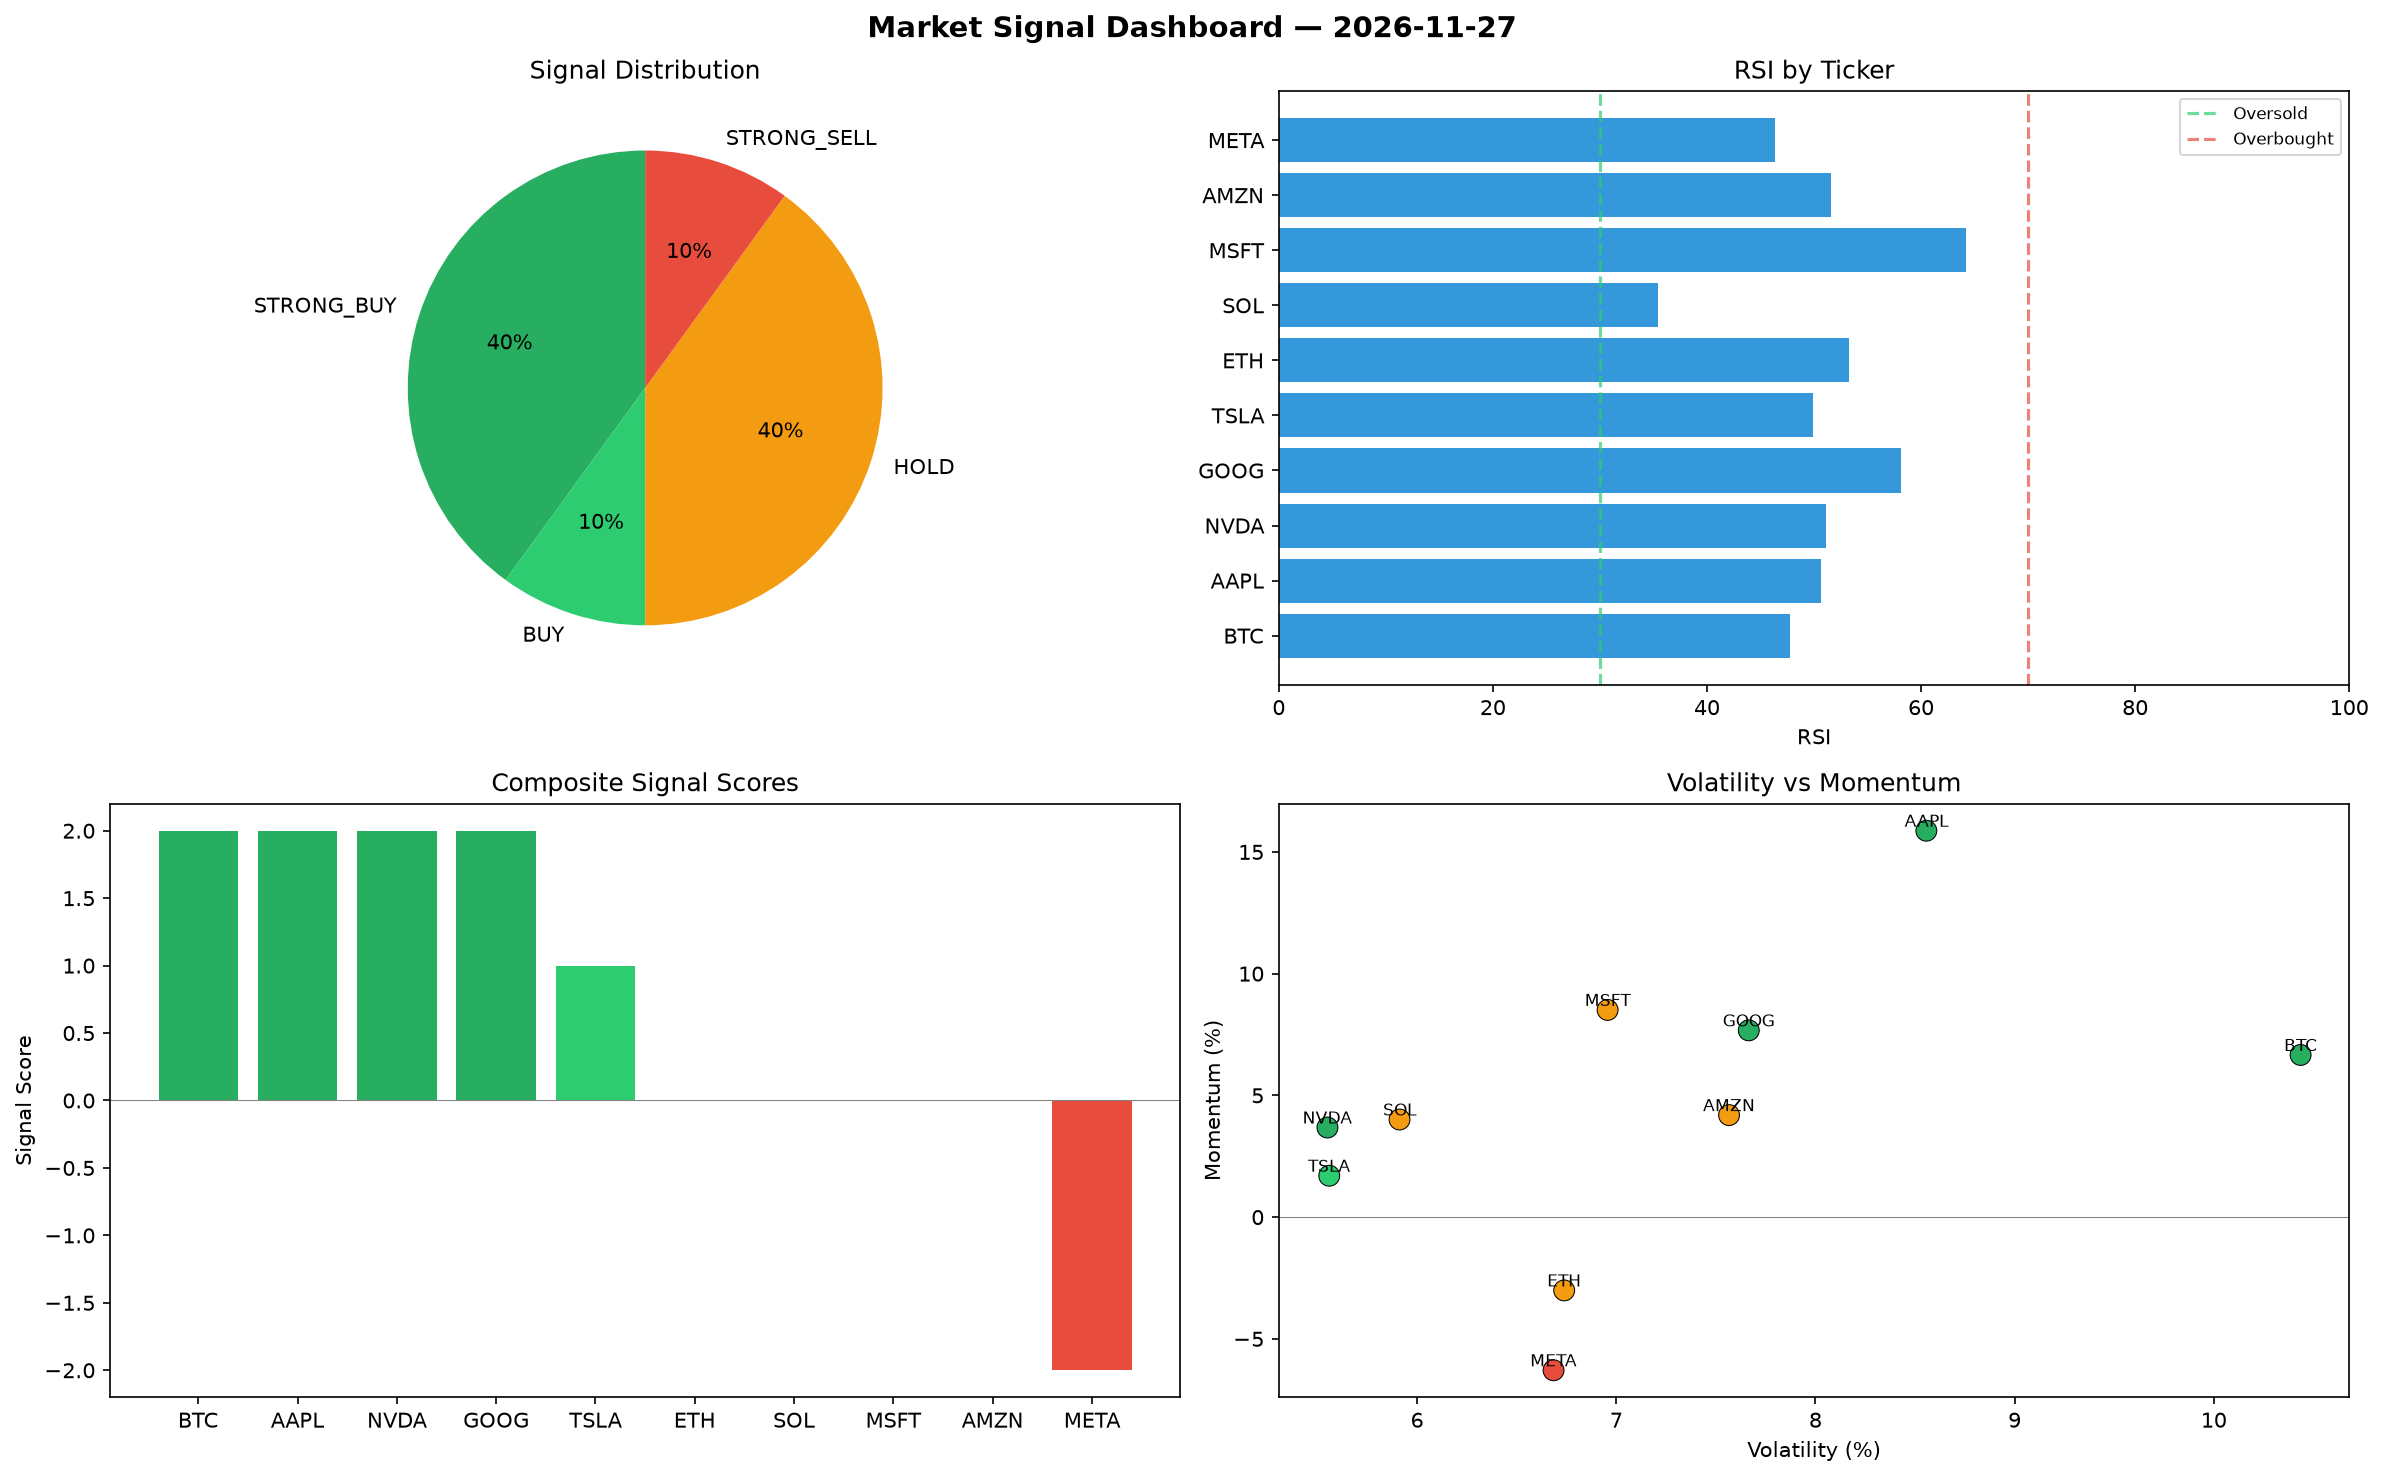
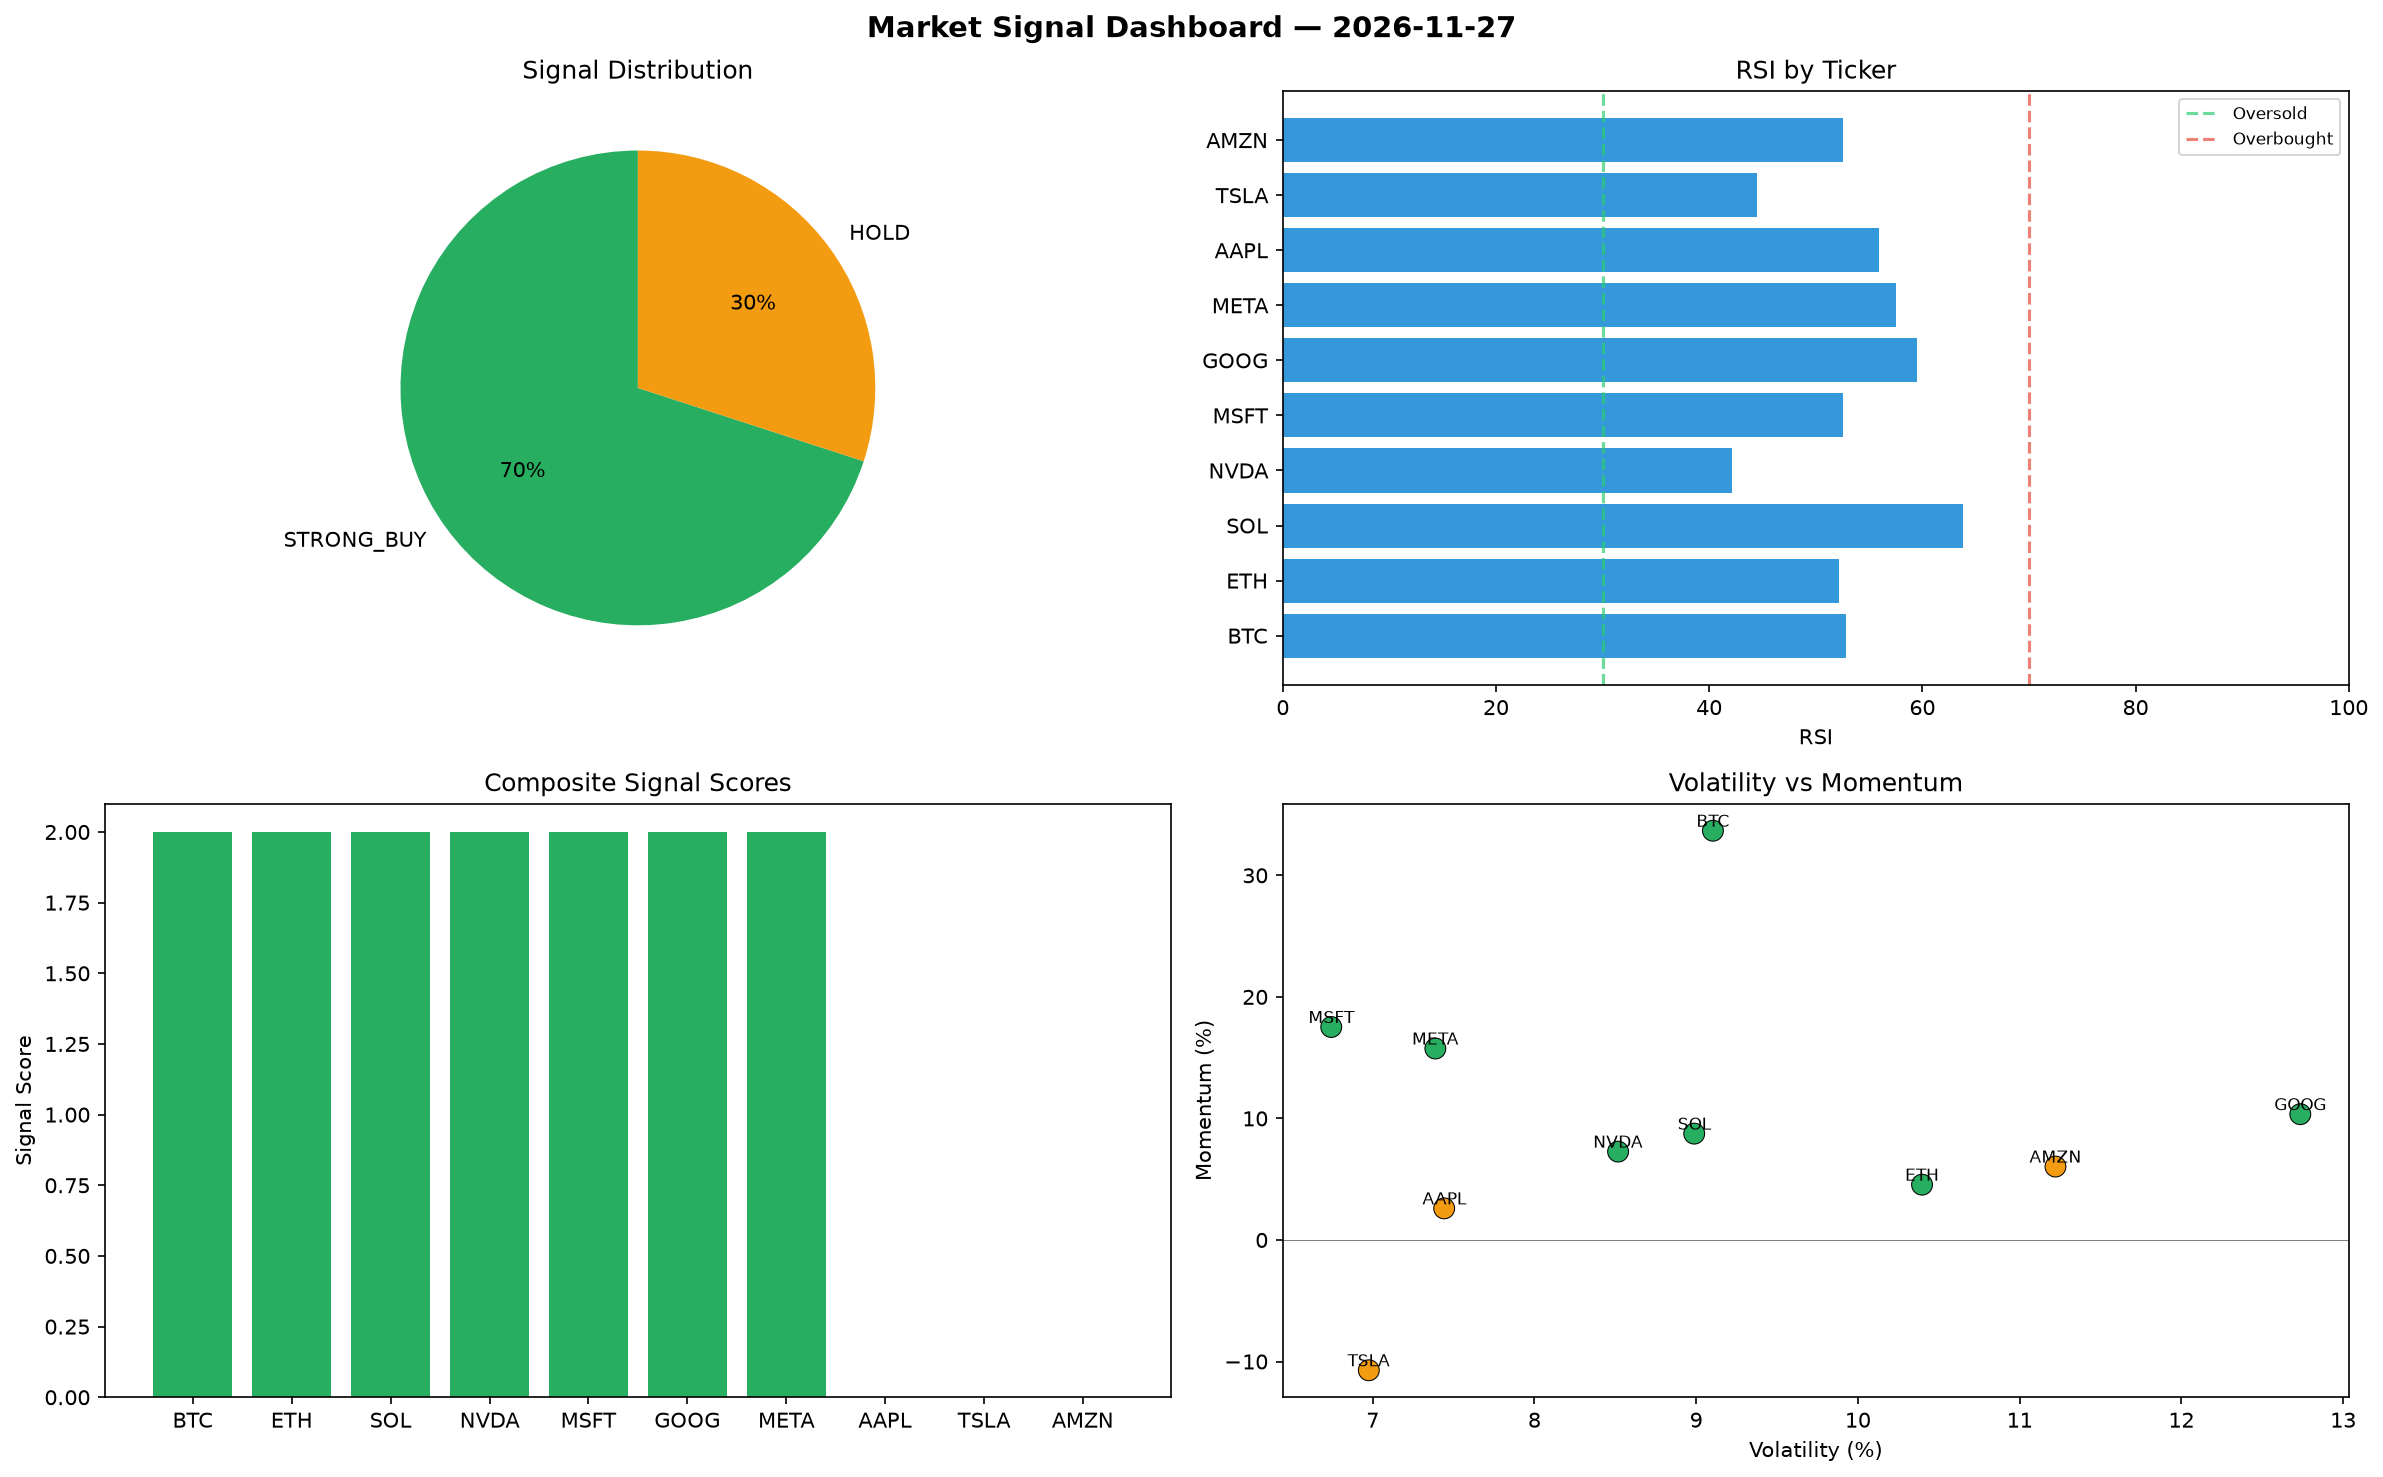
automated-bots: market signals 2026-11-27T22:51

diff --git a/logs/2026-11-27.md b/logs/2026-11-27.md
@@ -1,6 +1,6 @@
 # Market Signal Report — 2026-11-27
 
-**Run ID:** `9247117516` | **Buy:** 5 | **Sell:** 1 | **Hold:** 4
+**Run ID:** `20bf1cbdec` | **Buy:** 7 | **Sell:** 0 | **Hold:** 3
 
 ![Dashboard](2026-11-27_dashboard.png)
 
@@ -8,28 +8,28 @@
 
 | Ticker | Price | Signal | Score | RSI | Momentum | Confidence |
 |--------|-------|--------|-------|-----|----------|------------|
-| BTC | $4761.82 | **STRONG_BUY** | 2 | 47.75 | 0.0666 | 0.5 |
-| AAPL | $4913.98 | **STRONG_BUY** | 2 | 50.67 | 0.1587 | 0.5 |
-| NVDA | $785.08 | **STRONG_BUY** | 2 | 51.08 | 0.0368 | 0.5 |
-| GOOG | $1422.38 | **STRONG_BUY** | 2 | 58.1 | 0.0767 | 0.5 |
-| TSLA | $2126.48 | **BUY** | 1 | 49.92 | 0.017 | 0.25 |
-| ETH | $21.56 | **HOLD** | 0 | 53.31 | -0.0301 | 0.0 |
-| SOL | $4774.35 | **HOLD** | 0 | 35.38 | 0.0401 | 0.0 |
-| MSFT | $4918.62 | **HOLD** | 0 | 64.19 | 0.0851 | 0.0 |
-| AMZN | $1381.11 | **HOLD** | 0 | 51.56 | 0.0419 | 0.0 |
-| META | $2806.47 | **STRONG_SELL** | -2 | 46.35 | -0.0629 | 0.5 |
+| BTC | $280.73 | **STRONG_BUY** | 2 | 52.84 | 0.3367 | 0.5 |
+| ETH | $1593.22 | **STRONG_BUY** | 2 | 52.18 | 0.0455 | 0.5 |
+| SOL | $3035.24 | **STRONG_BUY** | 2 | 63.85 | 0.0875 | 0.5 |
+| NVDA | $3969.29 | **STRONG_BUY** | 2 | 42.13 | 0.0727 | 0.5 |
+| MSFT | $4985.25 | **STRONG_BUY** | 2 | 52.59 | 0.1752 | 0.5 |
+| GOOG | $1586.05 | **STRONG_BUY** | 2 | 59.46 | 0.1035 | 0.5 |
+| META | $881.51 | **STRONG_BUY** | 2 | 57.5 | 0.1575 | 0.5 |
+| AAPL | $1273.95 | **HOLD** | 0 | 55.96 | 0.026 | 0.0 |
+| TSLA | $429.18 | **HOLD** | 0 | 44.5 | -0.1072 | 0.0 |
+| AMZN | $3686.27 | **HOLD** | 0 | 52.54 | 0.0604 | 0.0 |
 
 ## Delta vs Yesterday
 
 | Ticker | Today | Yesterday | Price Change | Signal Changed |
 |--------|-------|-----------|-------------|----------------|
-| BTC | STRONG_BUY | STRONG_SELL | 📈 188.11% | ⚠ YES |
-| AAPL | STRONG_BUY | STRONG_BUY | 📈 264.65% | — |
-| NVDA | STRONG_BUY | STRONG_BUY | 📈 29.2% | — |
-| GOOG | STRONG_BUY | STRONG_SELL | 📉 -47.31% | ⚠ YES |
-| TSLA | BUY | HOLD | 📉 -36.84% | ⚠ YES |
-| ETH | HOLD | HOLD | 📉 -99.02% | — |
-| SOL | HOLD | BUY | 📈 39.97% | ⚠ YES |
-| MSFT | HOLD | HOLD | 📈 468.64% | — |
-| AMZN | HOLD | STRONG_SELL | 📈 145.09% | ⚠ YES |
-| META | STRONG_SELL | STRONG_BUY | 📈 930.5% | ⚠ YES |
+| BTC | STRONG_BUY | STRONG_SELL | 📉 -83.01% | ⚠ YES |
+| ETH | STRONG_BUY | HOLD | 📉 -27.37% | ⚠ YES |
+| SOL | STRONG_BUY | BUY | 📉 -11.02% | ⚠ YES |
+| NVDA | STRONG_BUY | STRONG_BUY | 📈 553.2% | — |
+| MSFT | STRONG_BUY | HOLD | 📈 476.34% | ⚠ YES |
+| GOOG | STRONG_BUY | STRONG_SELL | 📉 -41.25% | ⚠ YES |
+| META | STRONG_BUY | STRONG_BUY | 📈 223.68% | — |
+| AAPL | HOLD | STRONG_BUY | 📉 -5.46% | ⚠ YES |
+| TSLA | HOLD | HOLD | 📉 -87.25% | — |
+| AMZN | HOLD | STRONG_SELL | 📈 554.17% | ⚠ YES |
